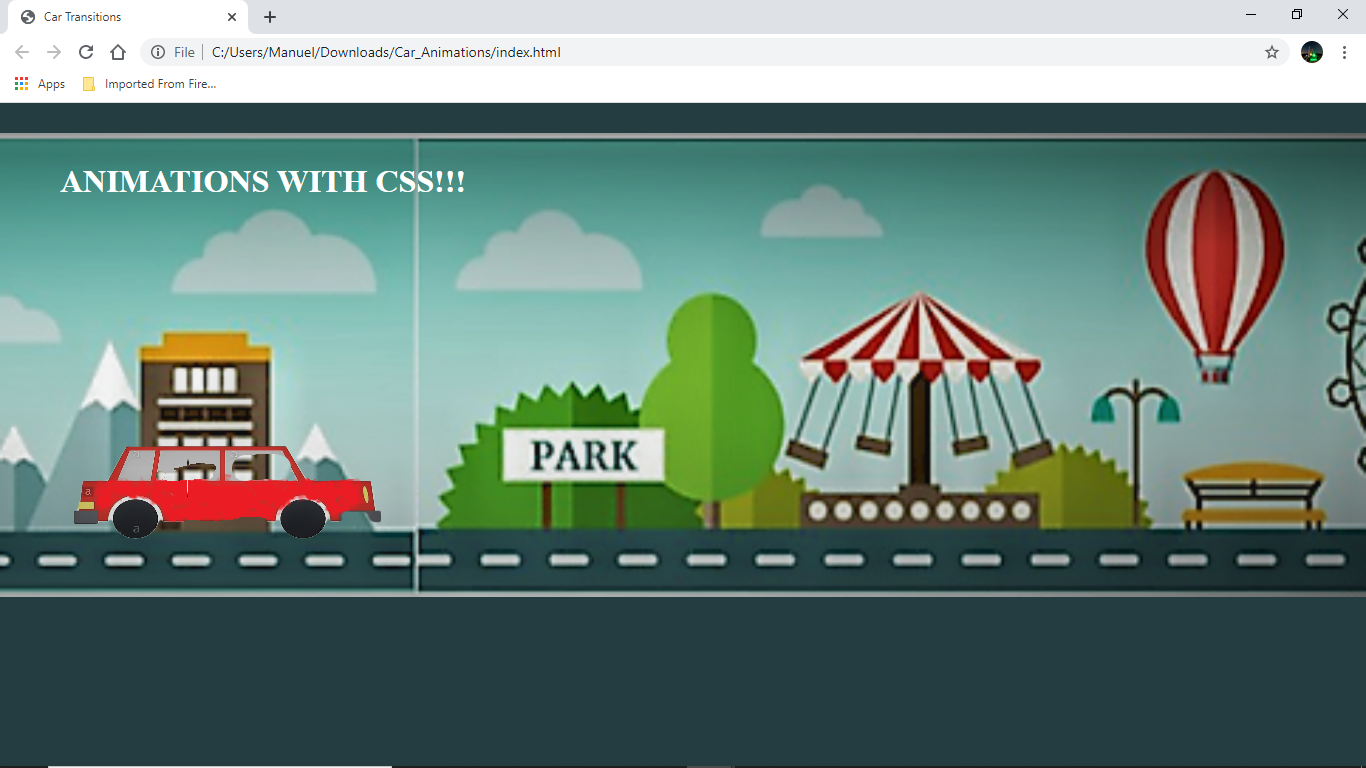
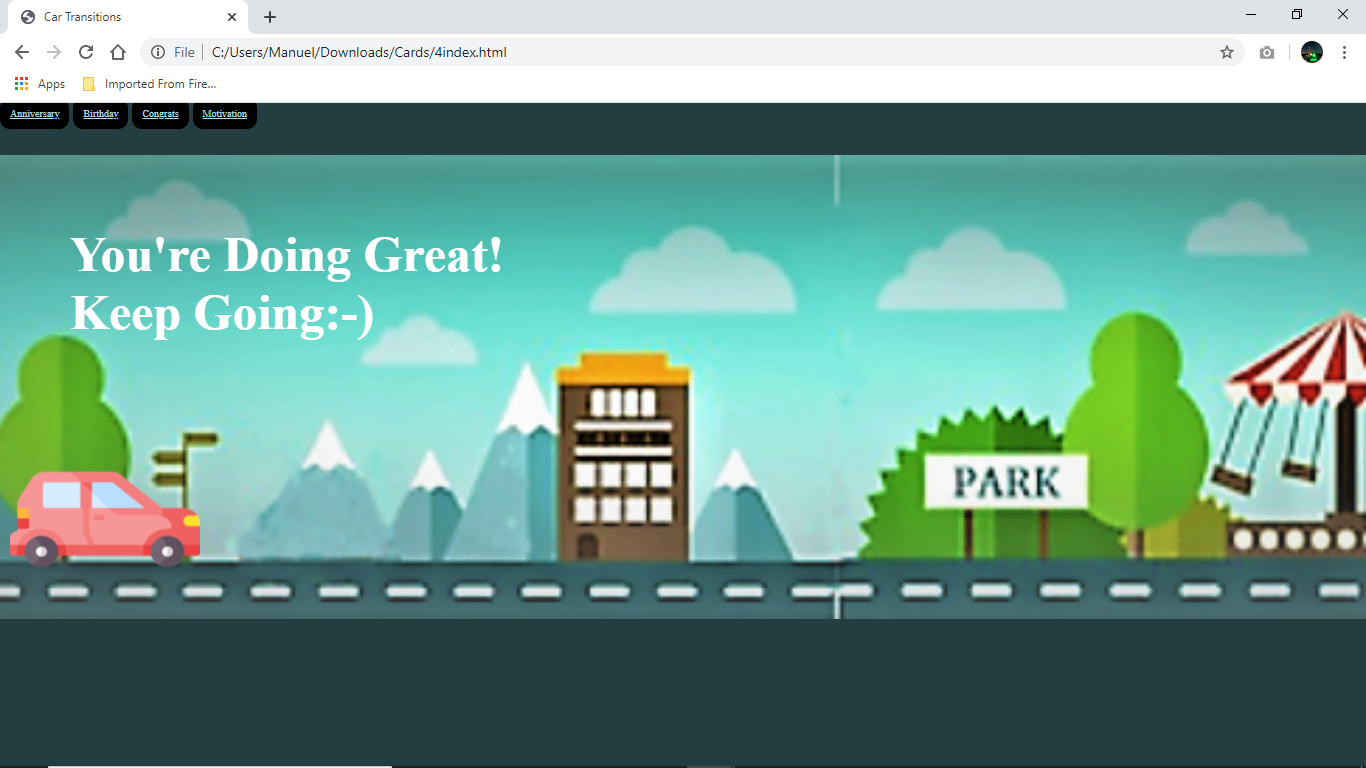
Add files via upload

diff --git a/index.html b/index.html
@@ -1,12 +1,13 @@
 <!DOCTYPE html>
-<html>
+<html> 
 <head>
+	<!-- <meta charset="utf-8"> -->
 	<title>Car Transitions</title>
 	<link rel="stylesheet" href="style.css">
 </head>
 <body>
 	<div class="bg">
-		<h1 style="margin:30px; color:white; padding:30px;">ANIMATIONS WITH CSS!!!</h1>
+		<h1 style="color:white; font-size:50px; padding:70px;">You're Doing Great!<br>Keep Going:-)</h1>
 		<img src="car.png" class="car">
 	</div>
 </body>

diff --git a/style.css b/style.css
@@ -6,7 +6,7 @@ body {
 }
 .bg {
 	position: relative;
-	background: url(background.PNG);
+	background: url(background.png);
 	height: 70vh;
 	background-size: cover;
 	background-position: 0 0;
@@ -15,7 +15,7 @@ body {
 }
 .car {
 	position: absolute;
-	bottom: 25px;
+	bottom: 12px;
 	left: 10px;
 }
 @keyframes animate {
